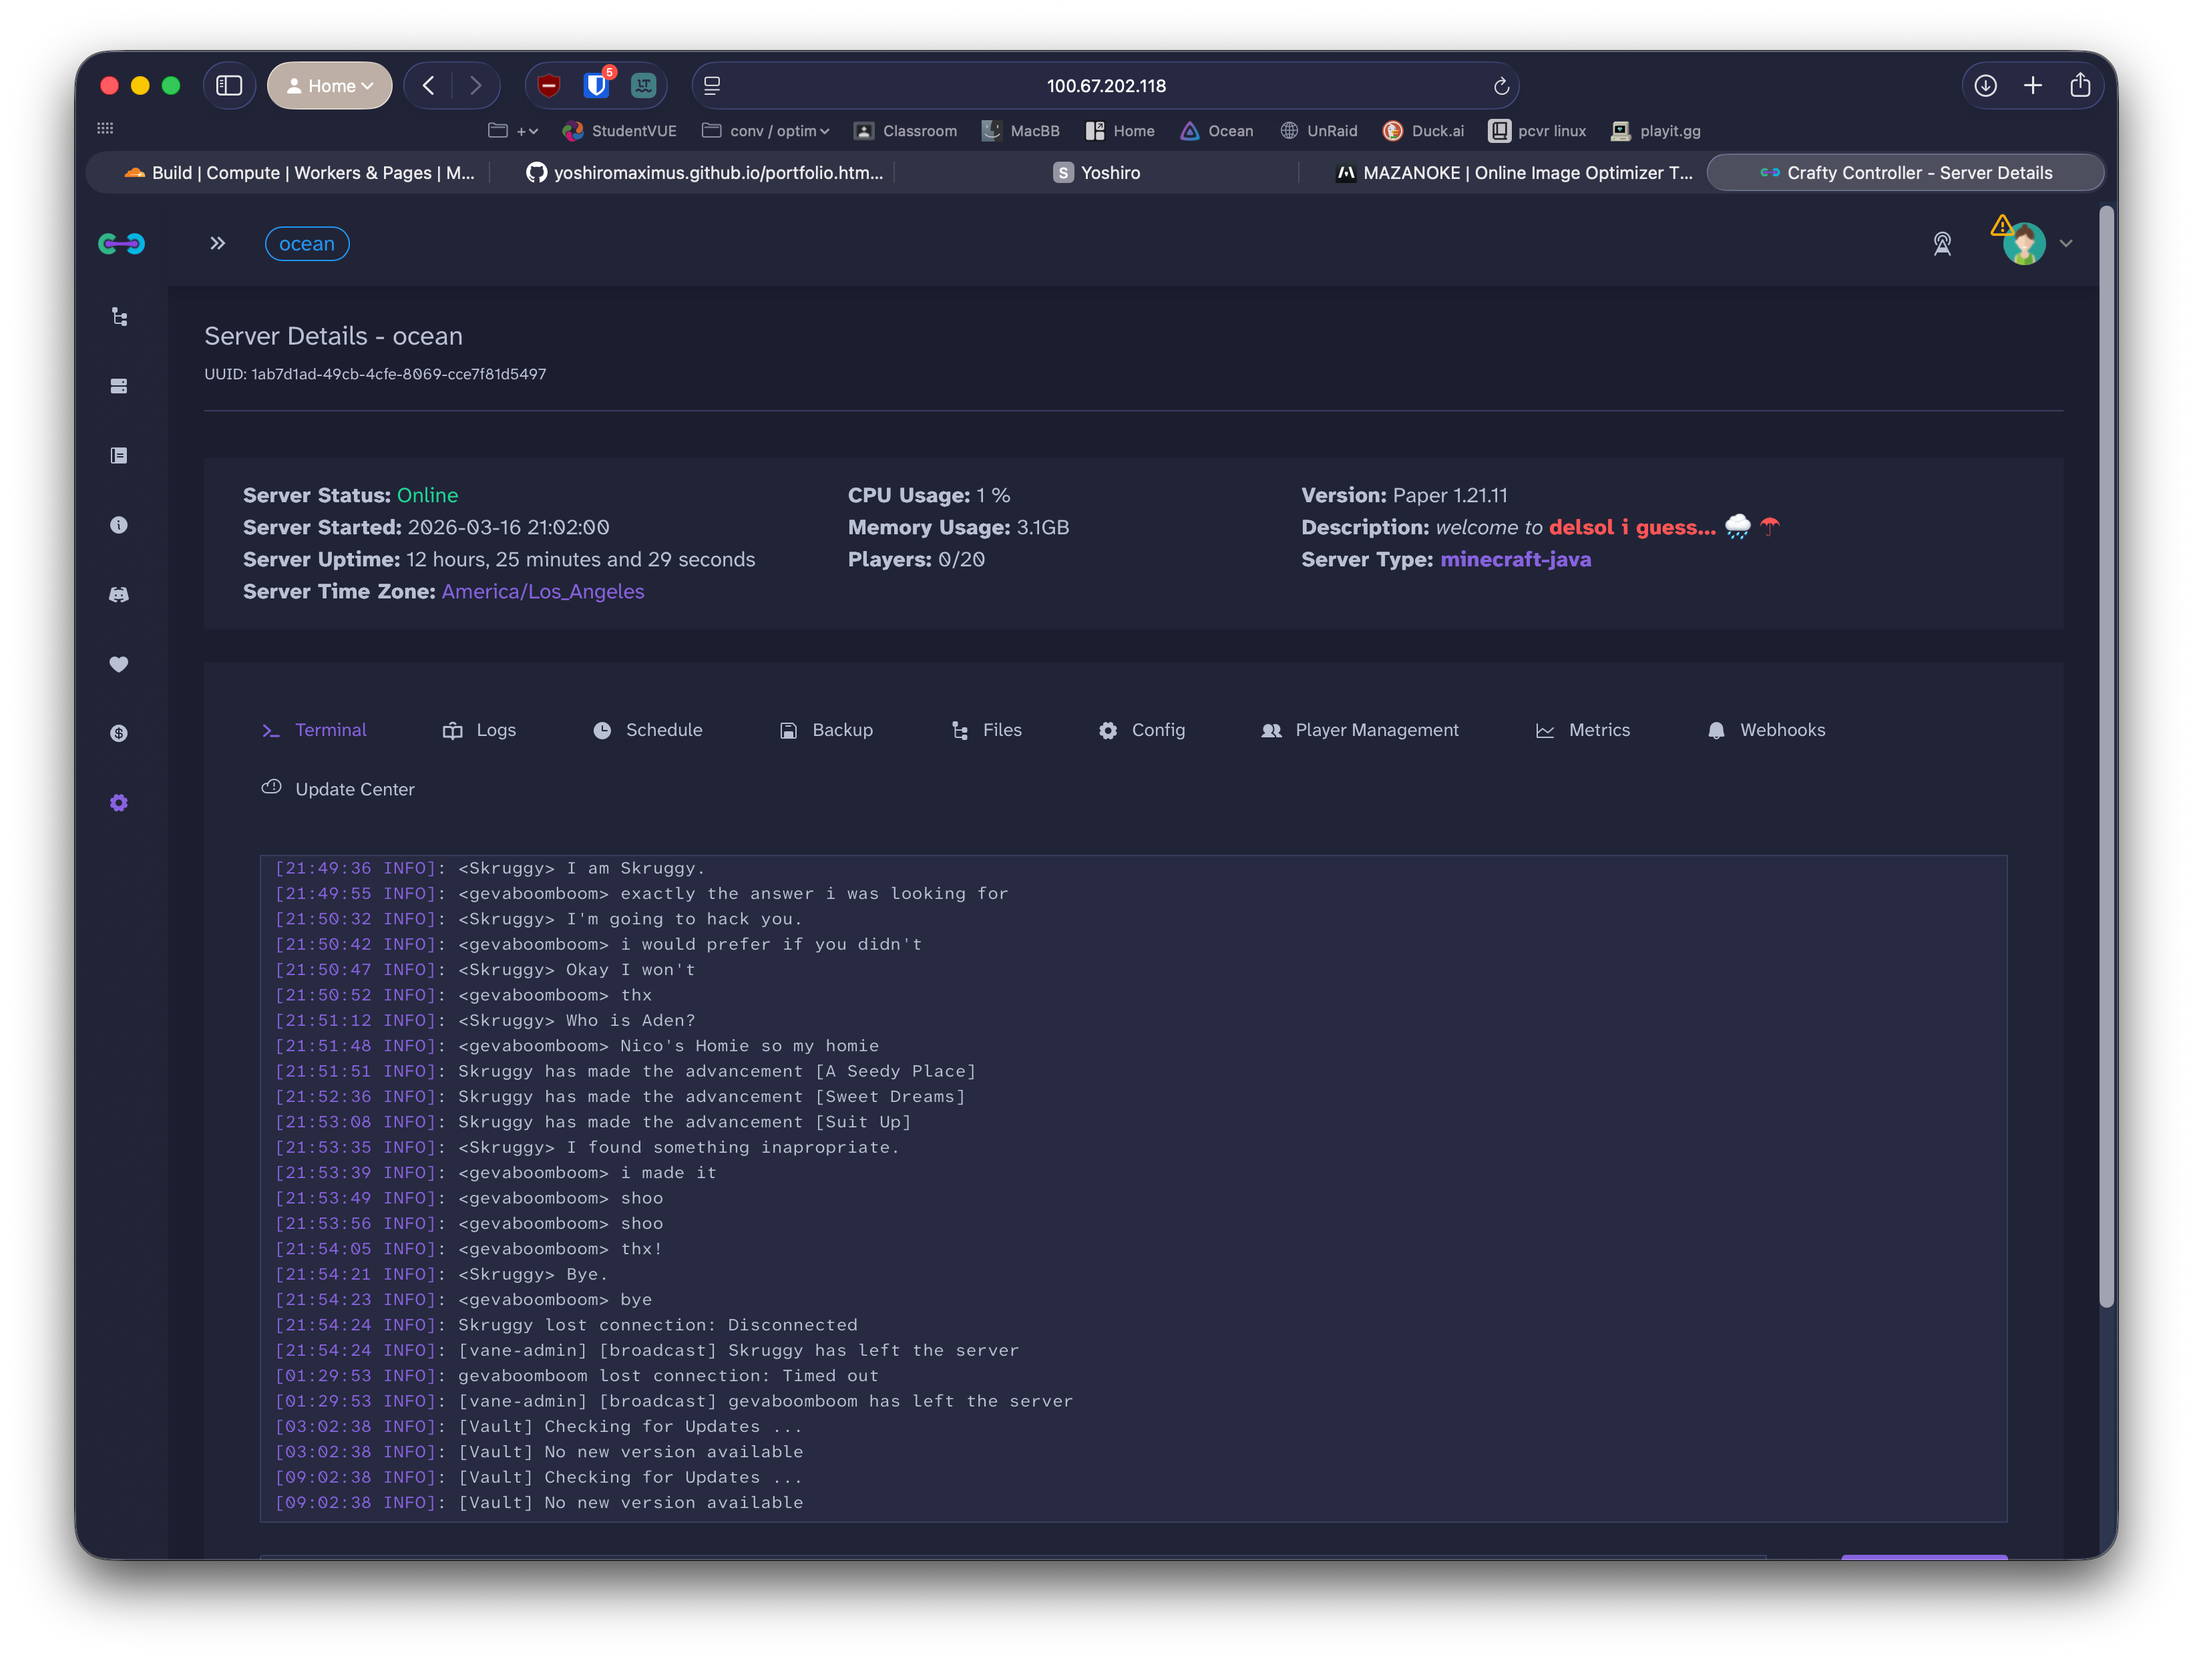
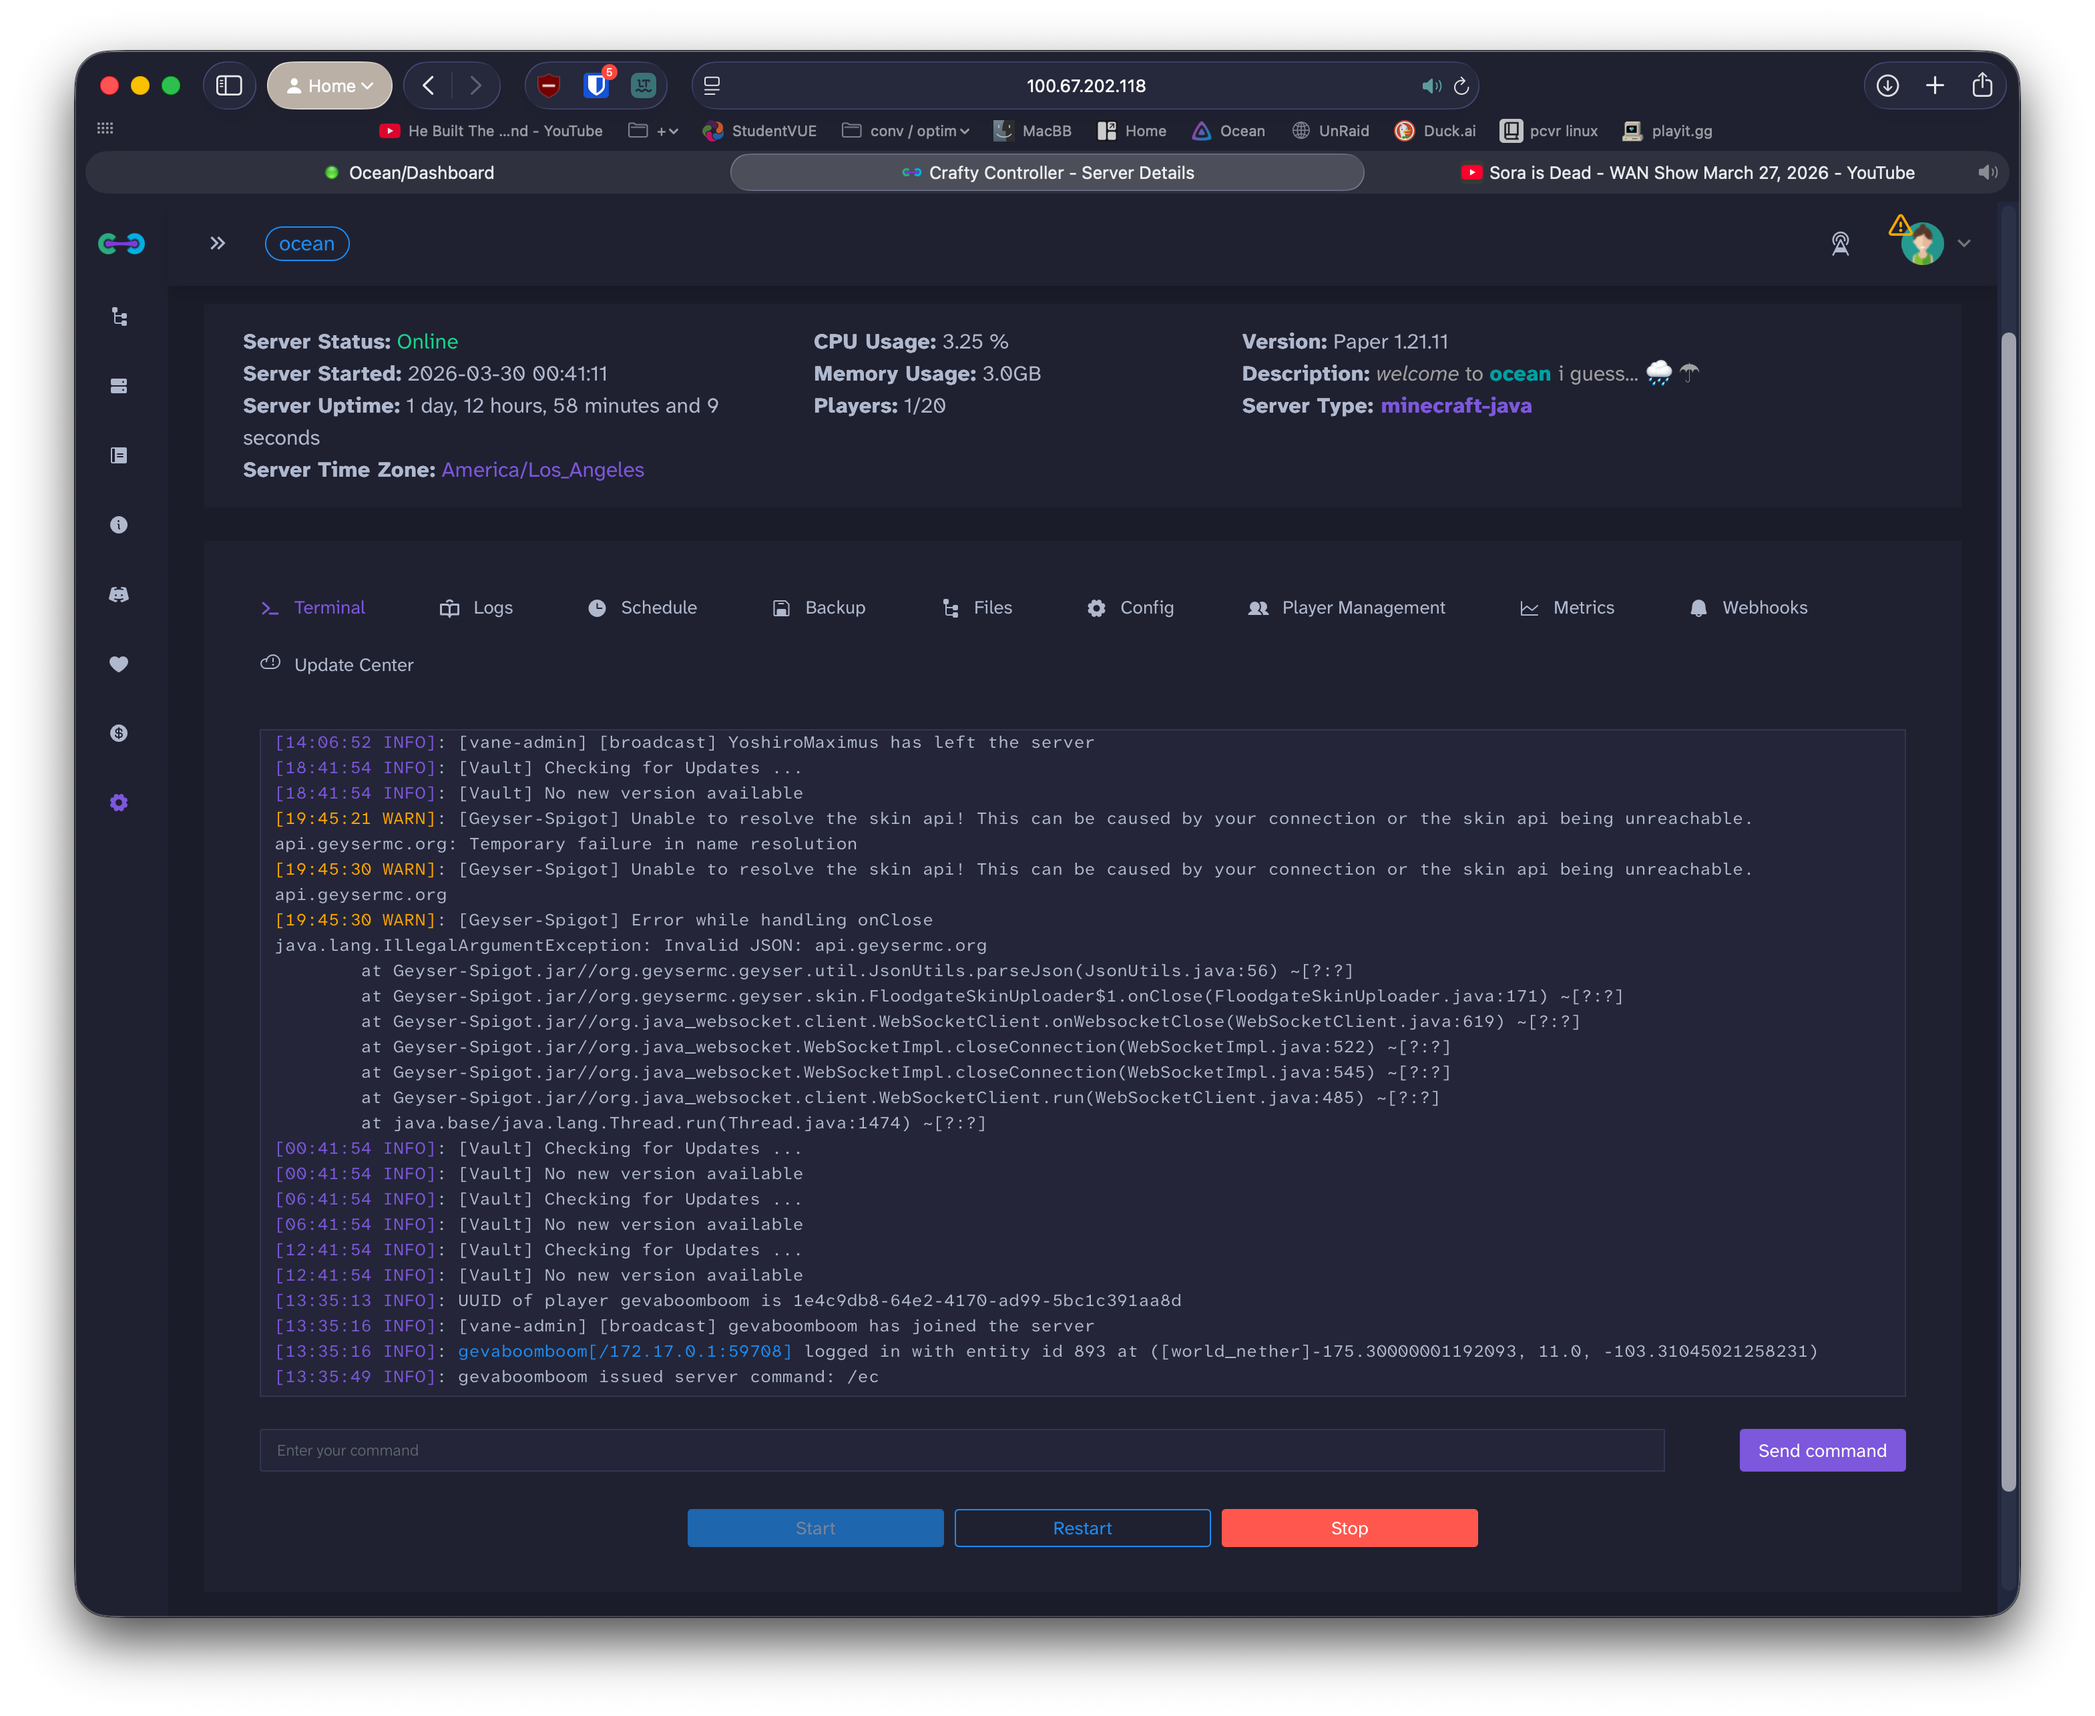
updated images

diff --git a/portfolio.html b/portfolio.html
@@ -412,7 +412,7 @@
             <span class="spec">modded</span>
           </div>
           <div class="project-img">
-            <img src="images/mc-screenshot.jpg" alt="Minecraft server">
+            <img src="images/mc-screenshot.png" alt="Minecraft server">
             <span class="project-img-label">add screenshot</span>
           </div>
         </div>
@@ -430,7 +430,7 @@
             <span class="spec">1TB SSD</span>
           </div>
           <div class="project-img">
-            <img src="images/homelab.jpg" alt="Homelab build">
+            <img src="images/homelab.png" alt="Homelab build">
             <span class="project-img-label">add photo</span>
           </div>
         </div>
